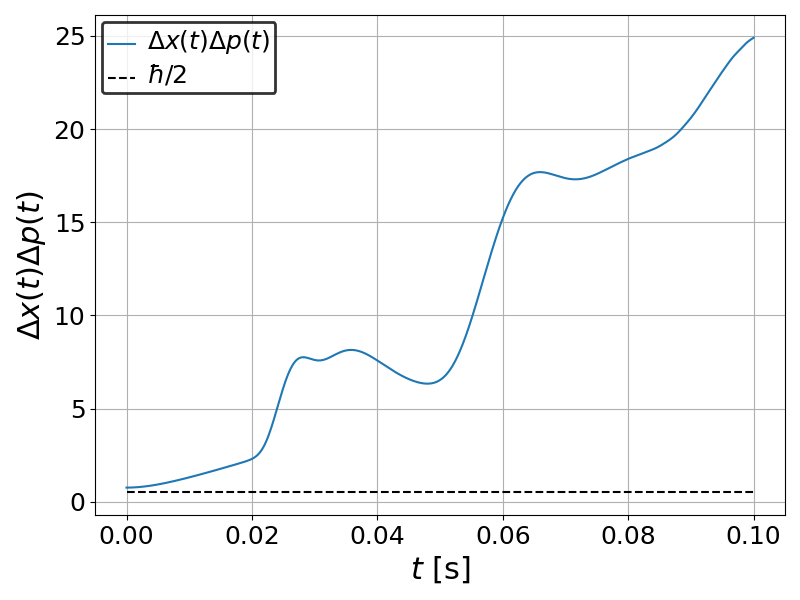
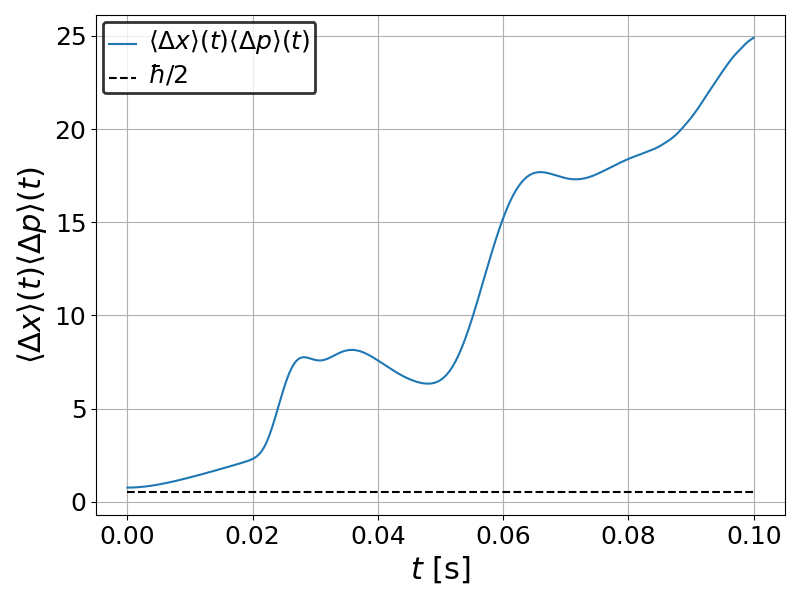
a

diff --git a/Ex6/point_i/paramterscan.py b/Ex6/point_i/paramterscan.py
@@ -16,7 +16,7 @@ from matplotlib import animation
 from scipy.signal import find_peaks
 from scipy.optimize import curve_fit
 
-ext = "png"
+ext = "pdf"
 
 
 # TODO adapt to what you need (folder path executable input filename)
@@ -84,18 +84,18 @@ u.set_legend_properties(ax, fontsize=18)
 u.savefig(fig, f"pmoyV0", ext = ext)
 
 #-----------------plot dxt-----------------
-ax,fig = u.create_figure_and_apply_format(figsize=(8, 6),xlabel=r"$t$ [s]", ylabel=r"$\Delta x (t)$")
+ax,fig = u.create_figure_and_apply_format(figsize=(8, 6),xlabel=r"$t$ [s]", ylabel=r"$\langle \Delta x \rangle (t)$")
 
-ax.plot(t,xincertitude, label=r"$\Delta x (t)$")
+ax.plot(t,xincertitude, label=r"$\langle \Delta x \rangle (t)$")
 
 plt.tight_layout()
 u.set_legend_properties(ax, fontsize=18)
 u.savefig(fig, f"dxtV0", ext = ext)
 
 #-----------------plot dpt-----------------
-ax,fig = u.create_figure_and_apply_format(figsize=(8, 6),xlabel=r"$t$ [s]", ylabel=r"$\Delta p (t)$")
+ax,fig = u.create_figure_and_apply_format(figsize=(8, 6),xlabel=r"$t$ [s]", ylabel=r"$\langle \Delta p \rangle (t)$")
 
-ax.plot(t,pincertitude, label=r"$\Delta p (t)$")
+ax.plot(t,pincertitude, label=r"$\langle \Delta p \rangle (t)$")
 
 plt.tight_layout()
 u.set_legend_properties(ax, fontsize=18)
@@ -179,9 +179,9 @@ u.savefig(fig, f"E_large_scaleV0", ext = ext)
 
 #-----------------Eisenberg uncertainty principle-----------------
 
-ax,fig = u.create_figure_and_apply_format(figsize=(8, 6),xlabel=r"$t$ [s]", ylabel=r'$\Delta x(t) \Delta p(t)$')
+ax,fig = u.create_figure_and_apply_format(figsize=(8, 6),xlabel=r"$t$ [s]", ylabel=r'$\langle \Delta x \rangle (t) \langle \Delta p\rangle(t)$')
 
-ax.plot(t,xincertitude*pincertitude, label=r"$\Delta x(t) \Delta p(t)$")
+ax.plot(t,xincertitude*pincertitude, label=r"$\langle \Delta x \rangle (t) \langle \Delta p\rangle(t)$")
 ax.plot(t, 0.5*np.ones_like(t), linestyle='--', color='black', label=r"$\hbar/2$")
 
 plt.tight_layout()
